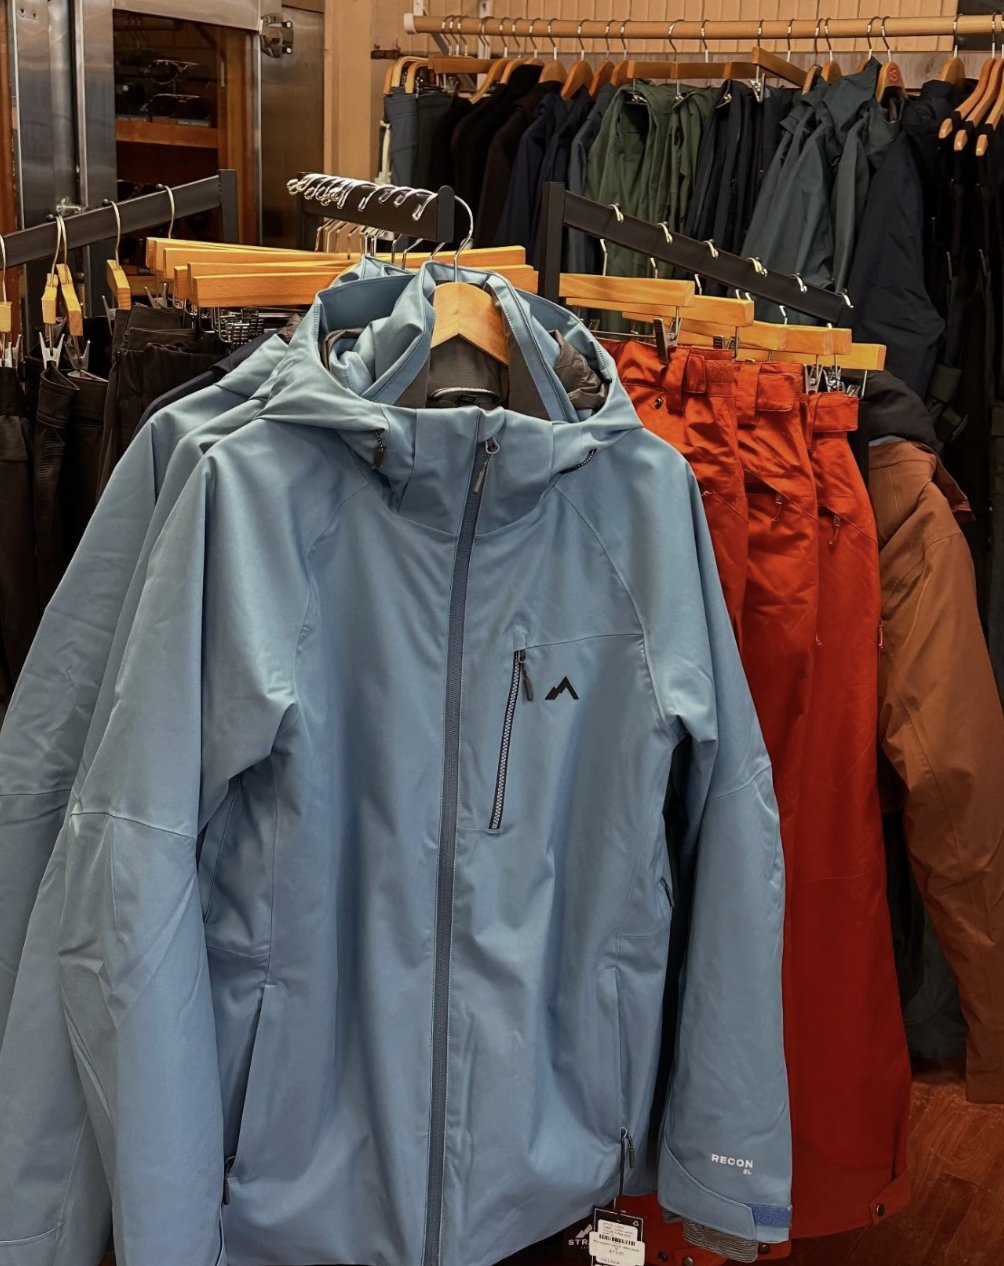
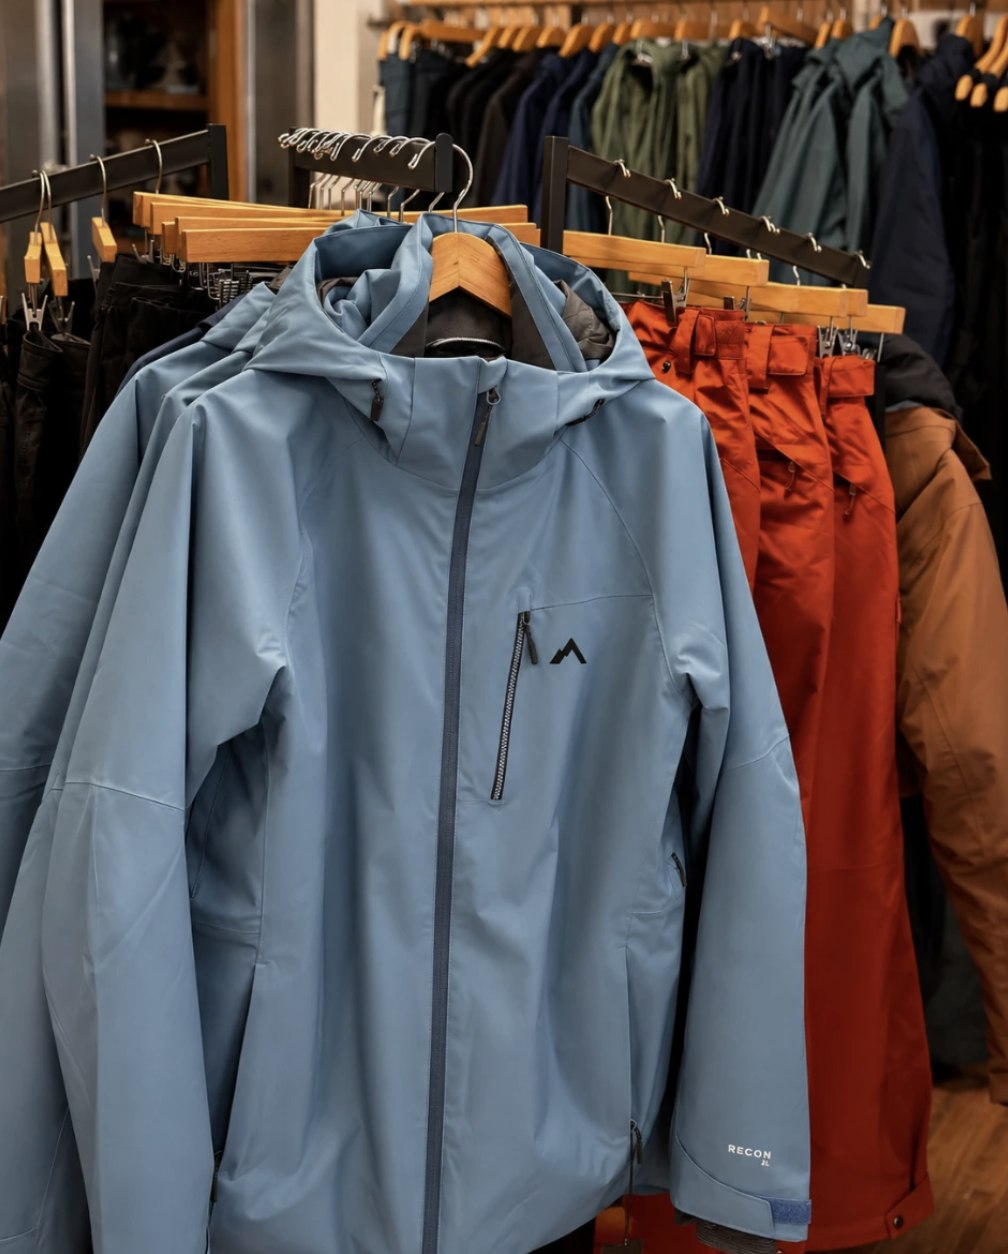
Show Brands category photos uncropped; new Strafe winter image
- Category media now uses natural image proportions (no forced 5:4 crop),
  so the Outside In sign and full products are visible
- Winter Gear now uses the cleaner Strafe RECON jacket photo

diff --git a/assets/css/styles.css b/assets/css/styles.css
@@ -563,9 +563,10 @@ a.chip:hover::after { opacity: 1; transform: translate(1px,-1px); }
 .bcat:nth-child(even) .bcat__media { order: 2; }
 .bcat__media {
   position: relative; border-radius: var(--radius-lg); overflow: hidden;
-  aspect-ratio: 5 / 4; box-shadow: var(--shadow-md); background: var(--stone);
+  box-shadow: var(--shadow-md); background: var(--stone);
+  align-self: center;
 }
-.bcat__media img { width: 100%; height: 100%; object-fit: cover; transition: transform .9s var(--ease-out); }
+.bcat__media img { width: 100%; height: auto; display: block; transition: transform .9s var(--ease-out); }
 .bcat:hover .bcat__media img { transform: scale(1.04); }
 .bcat__media--plain { display: grid; place-items: center; background: linear-gradient(140deg, var(--harbor), var(--harbor-ink)); color: var(--ember-soft); }
 .bcat__media--plain svg { width: 88px; height: 88px; }
@@ -573,7 +574,6 @@ a.chip:hover::after { opacity: 1; transform: translate(1px,-1px); }
 @media (max-width: 860px) {
   .bcat { grid-template-columns: 1fr; gap: 1.3rem; }
   .bcat:nth-child(even) .bcat__media { order: 0; }
-  .bcat__media { aspect-ratio: 16 / 10; }
 }
 
 /* Feature image card (brands page) */

diff --git a/brands.html b/brands.html
@@ -149,7 +149,7 @@
 
           <div class="bcat" id="winter" data-reveal>
             <div class="bcat__media">
-              <img src="assets/img/winter-jacket.jpg" alt="A blue insulated shell jacket on a rack beside orange snow pants" loading="lazy" width="1004" height="1266" />
+              <img src="assets/img/winter-jacket.jpg" alt="A blue Strafe RECON insulated shell jacket on a rack beside orange snow pants" loading="lazy" width="1008" height="1254" />
             </div>
             <div class="bcat__info">
               <div class="brand-cat__head">
